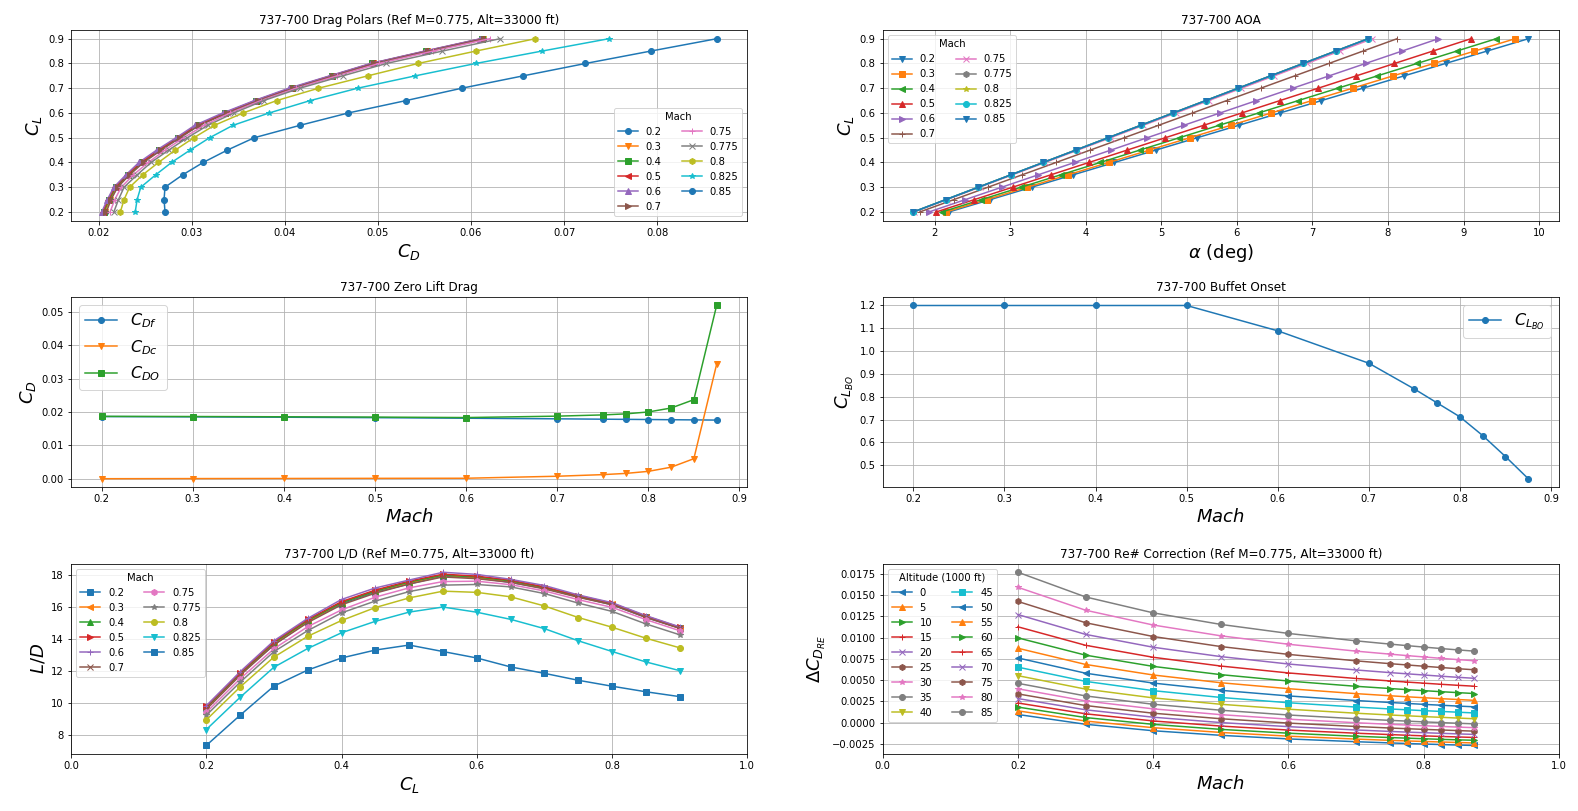
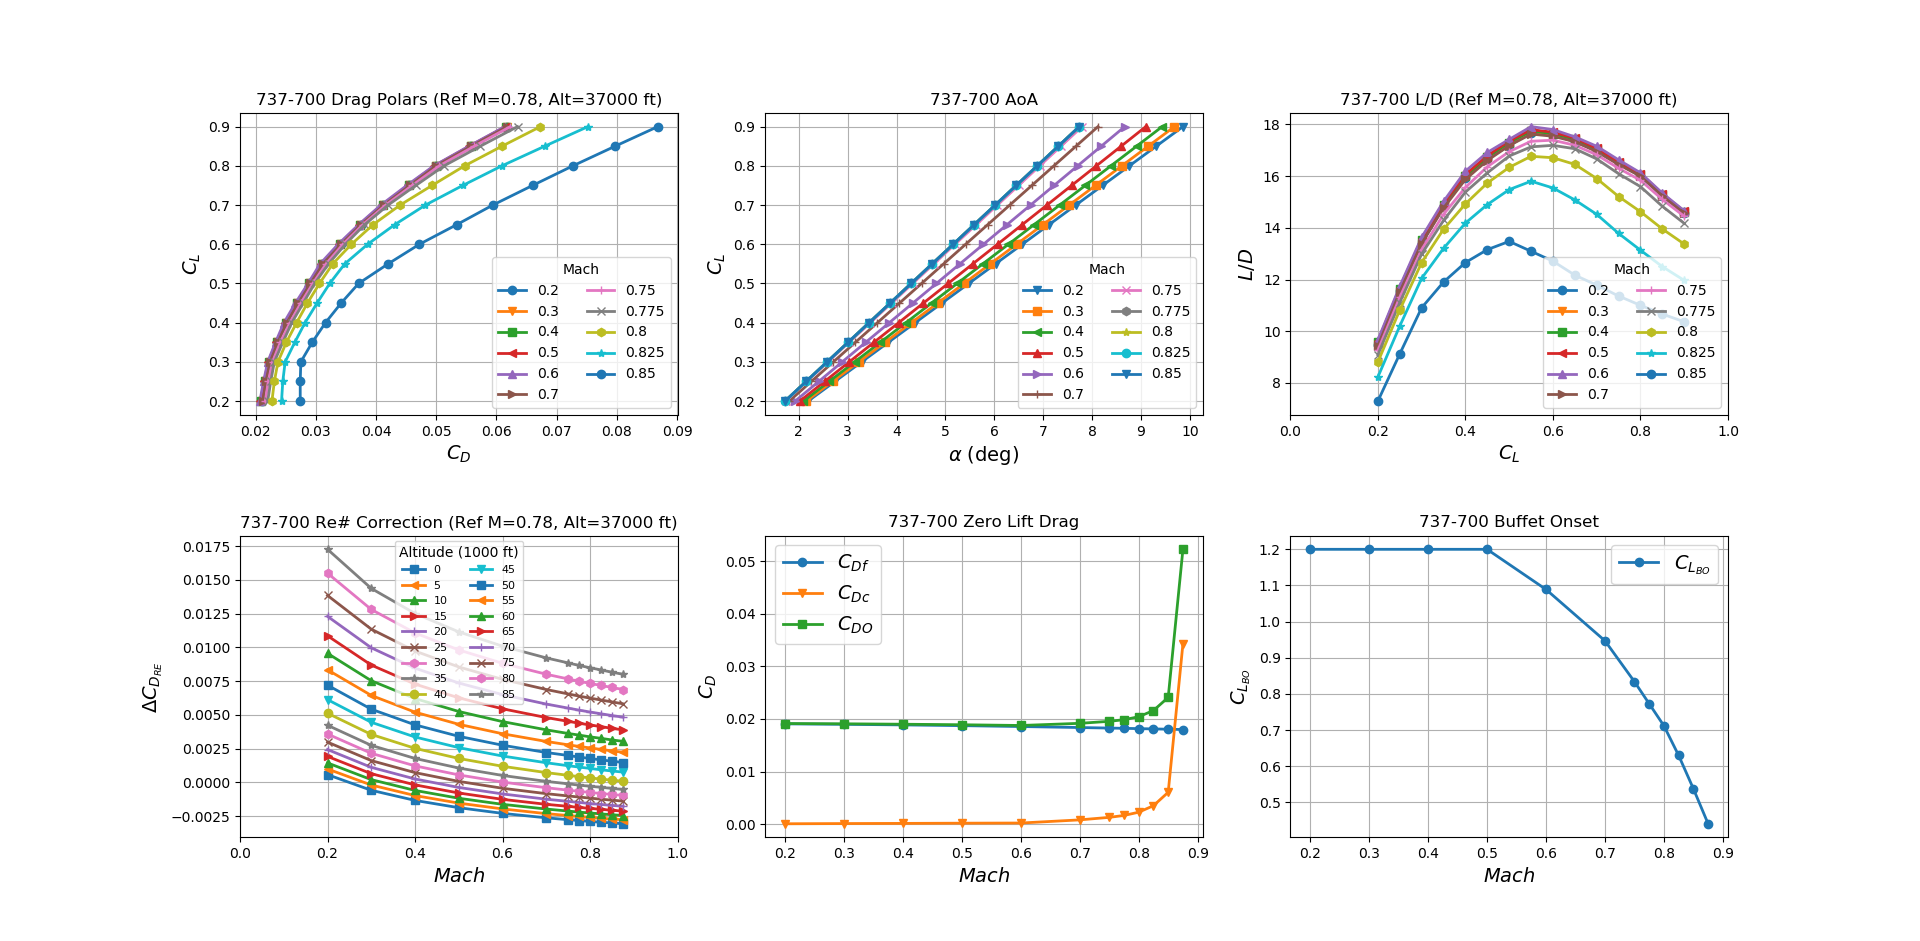
docs: improve readme and update sample plot

diff --git a/README.md b/README.md
@@ -2,7 +2,7 @@
 
 Stand-alone version of NASA public domain "Empirical Drag Estimation Toolkit."
 
-Includes Python wrapper to write input file, run program from command line, and plot output.
+Includes Python wrapper to write input file, run program, and plot output.
 
 Sample plot:    
 ![Sample plot created by Python wrapper](/Doc/EdetSamplePlots.PNG)
@@ -14,6 +14,6 @@ If error "The program can't start because libgcc_s_dw2-1.dll is missing" occurs,
 gfortran -static edetx.f -o edet.exe
 Alternatively, change PATH to include dll (typically at "C:\MinGW\bin").
 
-To run: assemble an input file named "edet.in" - samples are provided for A-4F, RA-5C, and 737-500 - see ".in" files in repo. Rename accordingly to run. To run manually from command line, type "edet" and output will appear as "EDET.out". 
+To run: assemble an input file named "edet.in". See the NASA CR for reference. Sample input files are provided for the A-4F, RA-5C, and 737-500 - see ".in" files in the Example directory. Copy any input file to the directory with edet.exe and rename the file as "edet.in". To run manually from command line, type "edet" and output will appear as "EDET.out". 
 
-An easier option is to run cases via edetWrapper. Set EDET inputs (which the script will write to to an input file) to the Python dictionary at the start of the script, and run with the path to the edet.exe as a command-line argument. The script will run EDET and plot results. See Doc/EdetSamplePlots.png.
+An easier option is to run cases via edetWrapper. Set the EDET inputs (which the script will write to to an input file) to the Python dictionary at the start of the script. Run the script with the path to the edet.exe as a command-line argument. The script will run EDET and plot results in the EDET.out file. See Doc/EdetSamplePlots.png for a sample plot.
